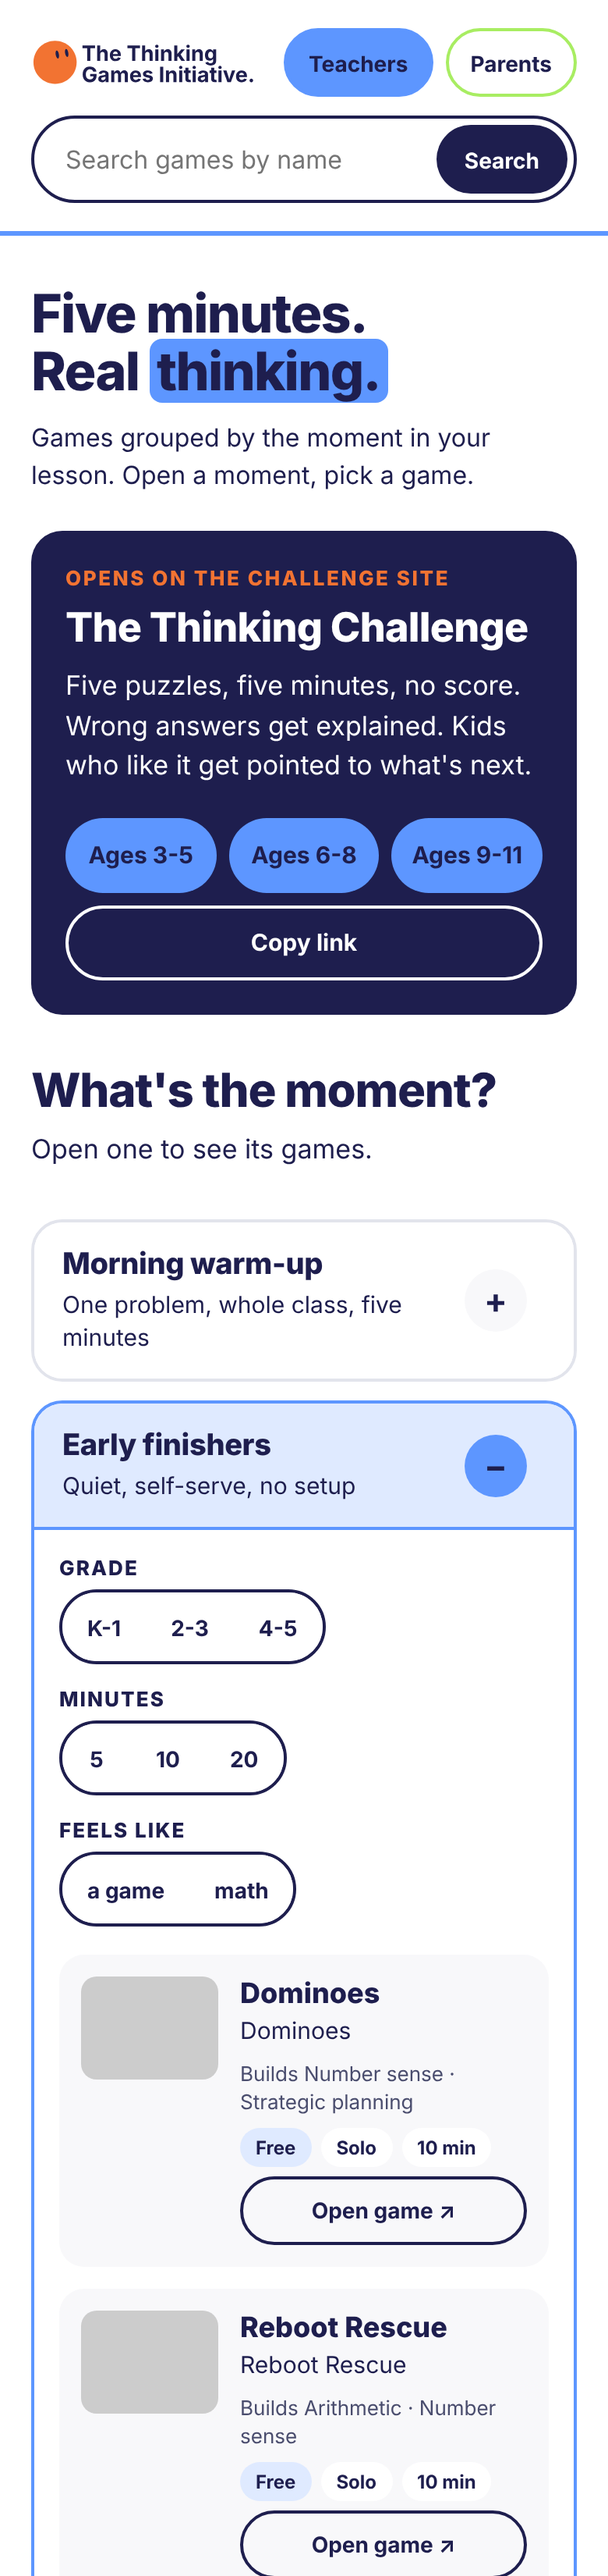
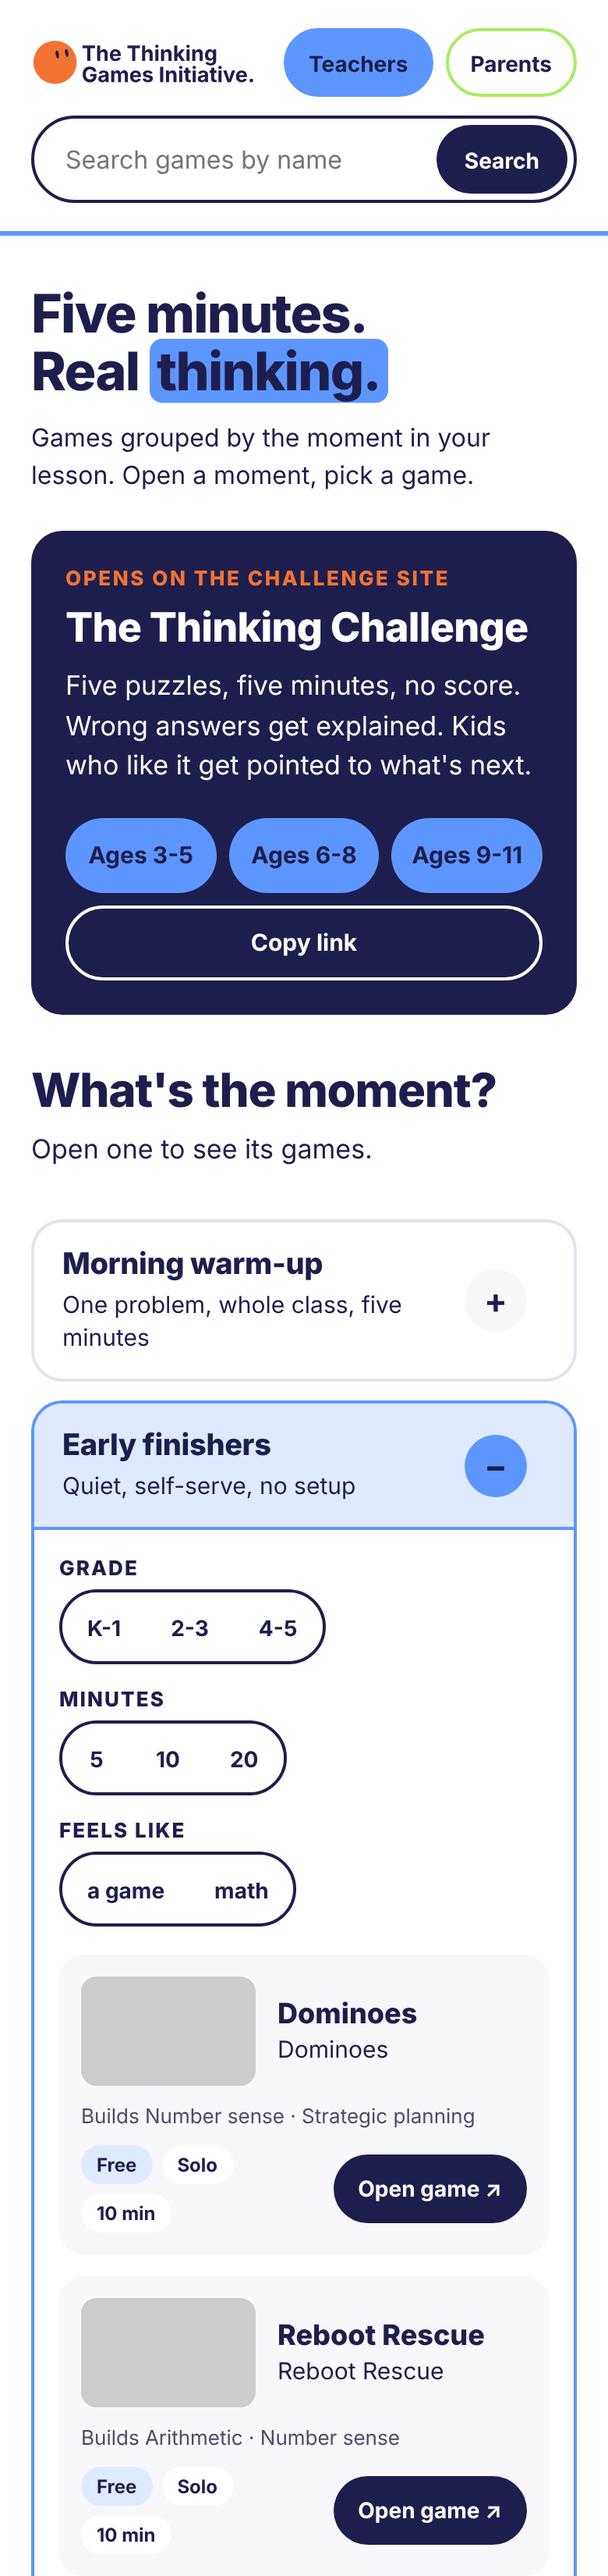
Teachers game card: option 2d layout
The card is now a column: thumbnail beside name and subtitle, the
Builds/Good for line full width, then badges with a solid inline
"Open game" button. Rows fit from 420px. At 640px and below the button
stays inline and the thumbnail is 112px. Updates the 390px screenshots.

Claude-Session: https://claude.ai/code/session_01FDofUHCjwtrrP3XcqDQKED

Changed region(s): [[0.1231, 0.7491, 0.8615, 1.0]]

diff --git a/app/globals.css b/app/globals.css
@@ -56,8 +56,8 @@ h1,h2,h3,p{margin:0}
 .thumb{border-radius:10px;overflow:hidden;background:repeating-linear-gradient(135deg,#e2e4ec 0 10px,#eceef4 10px 20px)}
 .thumb img{width:100%;height:100%;object-fit:cover}
 .link-btn{background:none;border:none;padding:0;font-size:14px;font-weight:700;text-decoration:underline;cursor:pointer}
-.btn-outline{text-decoration:none;font-size:14px;font-weight:700;padding:9px 16px;border-radius:999px;border:2px solid var(--ink);white-space:nowrap}
-.btn-outline:hover{background:var(--ink);color:#fff}
+.btn-open{flex-shrink:0;display:inline-flex;align-items:center;min-height:44px;text-decoration:none;font-size:14px;font-weight:700;padding:11px 16px;border-radius:999px;background:var(--ink);color:#fff;white-space:nowrap}
+.btn-open:hover{background:var(--orange);color:var(--ink)}
 .empty{padding:40px;border-radius:16px;background:var(--soft);font-size:17px;font-weight:700;text-align:center}
 .empty.sm{padding:32px;font-size:16px}
 .empty.panel{padding:56px 32px;border-radius:20px;display:flex;flex-direction:column;align-items:center;gap:14px}
@@ -82,16 +82,17 @@ h1,h2,h3,p{margin:0}
 .seg-opts button{border:none;min-height:40px;padding:8px 16px;font-size:14px;font-weight:700;cursor:pointer;background:#fff}
 .seg-opts button[aria-pressed="true"]{background:var(--ink);color:#fff}
 .seg-opts button:focus-visible,.moment-head:focus-visible{outline-offset:-4px}
-.rows{display:grid;grid-template-columns:repeat(auto-fill,minmax(min(100%,500px),1fr));gap:14px}
-.row{display:grid;grid-template-columns:132px minmax(0,1fr);gap:18px;align-items:start;padding:14px;border-radius:16px;background:var(--soft)}
+.rows{display:grid;grid-template-columns:repeat(auto-fill,minmax(min(100%,420px),1fr));gap:14px}
+.row{display:flex;flex-direction:column;gap:10px;padding:14px;border-radius:16px;background:var(--soft)}
+.row-top{display:grid;grid-template-columns:clamp(112px,28%,132px) minmax(0,1fr);gap:14px;align-items:center}
 .row .thumb{aspect-ratio:16/10}
 .row .tag{background:#fff}.row .tag.first{background:var(--teacher-light)}
-.row-body{display:flex;flex-direction:column;gap:8px;min-width:0}
+.row-text{display:flex;flex-direction:column;gap:2px;min-width:0}
 .row-name{font-size:18px;font-weight:800;line-height:1.2}
-.row-tagline{font-size:15px;line-height:1.4;margin-top:2px}
+.row-tagline{font-size:15px;line-height:1.35}
 .meta{font-size:13px;line-height:1.4;color:var(--muted)}
-.row-foot{display:flex;flex-wrap:wrap;align-items:center;gap:6px}
-.row-foot .btn-outline{margin-left:auto}
+.row-foot{display:flex;align-items:center;gap:6px}
+.row-badges{flex:1;min-width:0;display:flex;flex-wrap:wrap;gap:6px}
 
 /* Parents: library */
 .lib{display:flex;flex-wrap:wrap;gap:clamp(24px,3vw,40px);align-items:flex-start}
@@ -201,8 +202,7 @@ body:has(.home-hero) .ftr-mission{grid-template-columns:120px minmax(0,1fr)}
   .seg-opts{max-width:100%;overflow-x:auto;scrollbar-width:none;-webkit-overflow-scrolling:touch}
   .seg-opts::-webkit-scrollbar{display:none}
   .seg-opts button{flex-shrink:0;min-width:44px;min-height:44px;white-space:nowrap}
-  .row{grid-template-columns:88px minmax(0,1fr);gap:14px}
-  .row-foot .btn-outline{margin-left:0;flex:1 1 100%;display:flex;align-items:center;justify-content:center;min-height:44px}
+  .row-top{grid-template-columns:112px minmax(0,1fr)}
 
   /* Parents: the sidebar becomes a full-screen panel opened from a sticky "Filters" button */
   .filters{display:none}

diff --git a/components/TeachersView.tsx b/components/TeachersView.tsx
@@ -192,21 +192,23 @@ export function TeachersView({ data }: { data: TeachersData }) {
 function GameRow({ game, meta }: { game: AudienceGame; meta?: string }) {
   return (
     <article className="row">
-      <GameImage image={game.image} w={132} />
-      <div className="row-body">
-        <div>
+      <div className="row-top">
+        <GameImage image={game.image} w={132} />
+        <div className="row-text">
           <div className="row-name">{game.name}</div>
           {game.subtitle && <div className="row-tagline">{game.subtitle}</div>}
         </div>
-        {meta && <span className="meta">{meta}</span>}
-        <div className="row-foot">
+      </div>
+      {meta && <span className="meta">{meta}</span>}
+      <div className="row-foot">
+        <div className="row-badges">
           <Badges badges={badges(game)} />
-          {game.url && (
-            <a className="btn-outline" href={game.url} target="_blank" rel="noopener">
-              Open game ↗<span className="sr-only"> {game.name} (opens in new tab)</span>
-            </a>
-          )}
         </div>
+        {game.url && (
+          <a className="btn-open" href={game.url} target="_blank" rel="noopener">
+            Open game ↗<span className="sr-only"> {game.name} (opens in new tab)</span>
+          </a>
+        )}
       </div>
     </article>
   )

diff --git a/docs/STATUS.md b/docs/STATUS.md
@@ -23,6 +23,7 @@ Running record of what is done, what is open, and decisions made. Updated in eac
 - Task B, games backend: games now carry facts (age range, minutes, players, cost, offline, no reading, platforms, skills, feels like, when, moments, show on) and lib/derive.ts turns them into filters, badges, the "Builds" line and sort order. filterOption documents and sanity/groups.ts are gone. New skill and whenOption documents. Spreadsheet import at scripts/import-games.mts. Seed rewritten to the new model. Studio lists Games, Teacher moments, Skills, When options.
 
 - 2026-10-19: Vercel is connected and live. Production domain: https://thinkinggames-web.vercel.app/. Main deploys on every merge. The Sanity webhook points to /api/revalidate on that domain, so a publish in Studio goes live in seconds without a redeploy. **To check a deploy, fetch the production domain and look at what it serves; do not rely on GitHub commit statuses or check runs** (Vercel posts none on this repository).
+- Teachers game card, option 2d (Teachers Page v2 in Claude Design), for moment rows and search results alike: the card is a column. A top row puts the 16:10 thumbnail (clamp(112px, 28%, 132px)) beside the name and subtitle, centred; under it, full width, the "Builds …" / "Good for …" line; then a footer with the badges wrapping on the left and a solid "Open game ↗" button (ink, orange on hover, 44px tall) on the right. The rows grid now fits two cards from 420px each (was 500px). At 640px and below the button stays inline at the right of the badges instead of going full width, and the thumbnail is 112px (was 88px). Checked at 360, 390, 430 and 1280px: no horizontal scroll. Screenshots in docs/screenshots/c1-mobile/ updated. The design file in design-handoff/ was not updated in this round (no design export was attached).
 - The footer is pinned to the bottom of the screen on pages shorter than it (the 404 page everywhere, the home page on very tall screens). Taller pages render pixel-identical to before.
 - Every game image is 16:10. Teachers row and search thumbnails went from 4:3 (132×99) to 16:10 (132×82.5 on desktop, 88×55 at 640px and below), and request a 264×165 crop from Sanity, the same 16:10 crop as the 800×500 Parents cards. The image field asks editors for 1600×1000.
 - 404 page now renders the site footer (app/not-found.tsx sits outside the (site) layout, so it fetches the site settings itself). It still returns HTTP 404.
@@ -83,7 +84,7 @@ Not drift: game order, game counts per moment, tag sets and thumbnails differ be
 
 - Below 390px the 28px mascot logo (144px wide) and the two pills (188px) cannot share one row inside the 20px page gutters; at 360px only 320px is available. Below 390px the header gap tightens to 8px and the mascot logo shrinks to 24px tall. The home wordmark still fits at 28px. At 390px and up every header value is as specified.
 - The 34px hero applies to the Teachers, Parents and 404 heroes. The home hero keeps its own size (42px at 390px), since the Home section of the spec only lists the doors.
-- "Open game" spans the full width of the row's text column, under the badges; the thumbnail column stays beside it.
+- "Open game" spanned the full width of the row's text column, under the badges. Replaced by the option 2d card: the button now sits inline at the right of the badge row on every screen size.
 - In the filter panel, "Clear all" shows once a filter or search is active, as on desktop.
 - Two focus rings were clipped by their container's overflow on every screen size (the in-moment filter options and the moment headers). They are now drawn inside the element; this changes nothing until an element has keyboard focus.
 
@@ -113,5 +114,5 @@ Not drift: game order, game counts per moment, tag sets and thumbnails differ be
 
 ## Environment notes
 
-- The cloud session's network policy allows api.sanity.io and GitHub but blocks thinkinggames-web.vercel.app, so the live site cannot be fetched from a cloud session unless that host is added to the environment's Allowed domains.
+- The cloud session's network policy allows api.sanity.io and GitHub but blocks thinkinggames-web.vercel.app, so the live site cannot be fetched from a cloud session unless that host is added to the environment's Allowed domains. As of 2026-10-21 both rh1roy5u.apicdn.sanity.io and thinkinggames-web.vercel.app are reachable from the cloud session.
 - Earlier note: the cloud session's network policy blocked rh1roy5u.api.sanity.io, so pages and the production build cannot reach Sanity from there. Local verification used a stand-in that evaluates the site's GROQ queries against seed/seed.ndjson. Allow the host in the environment's network settings to lift this.
